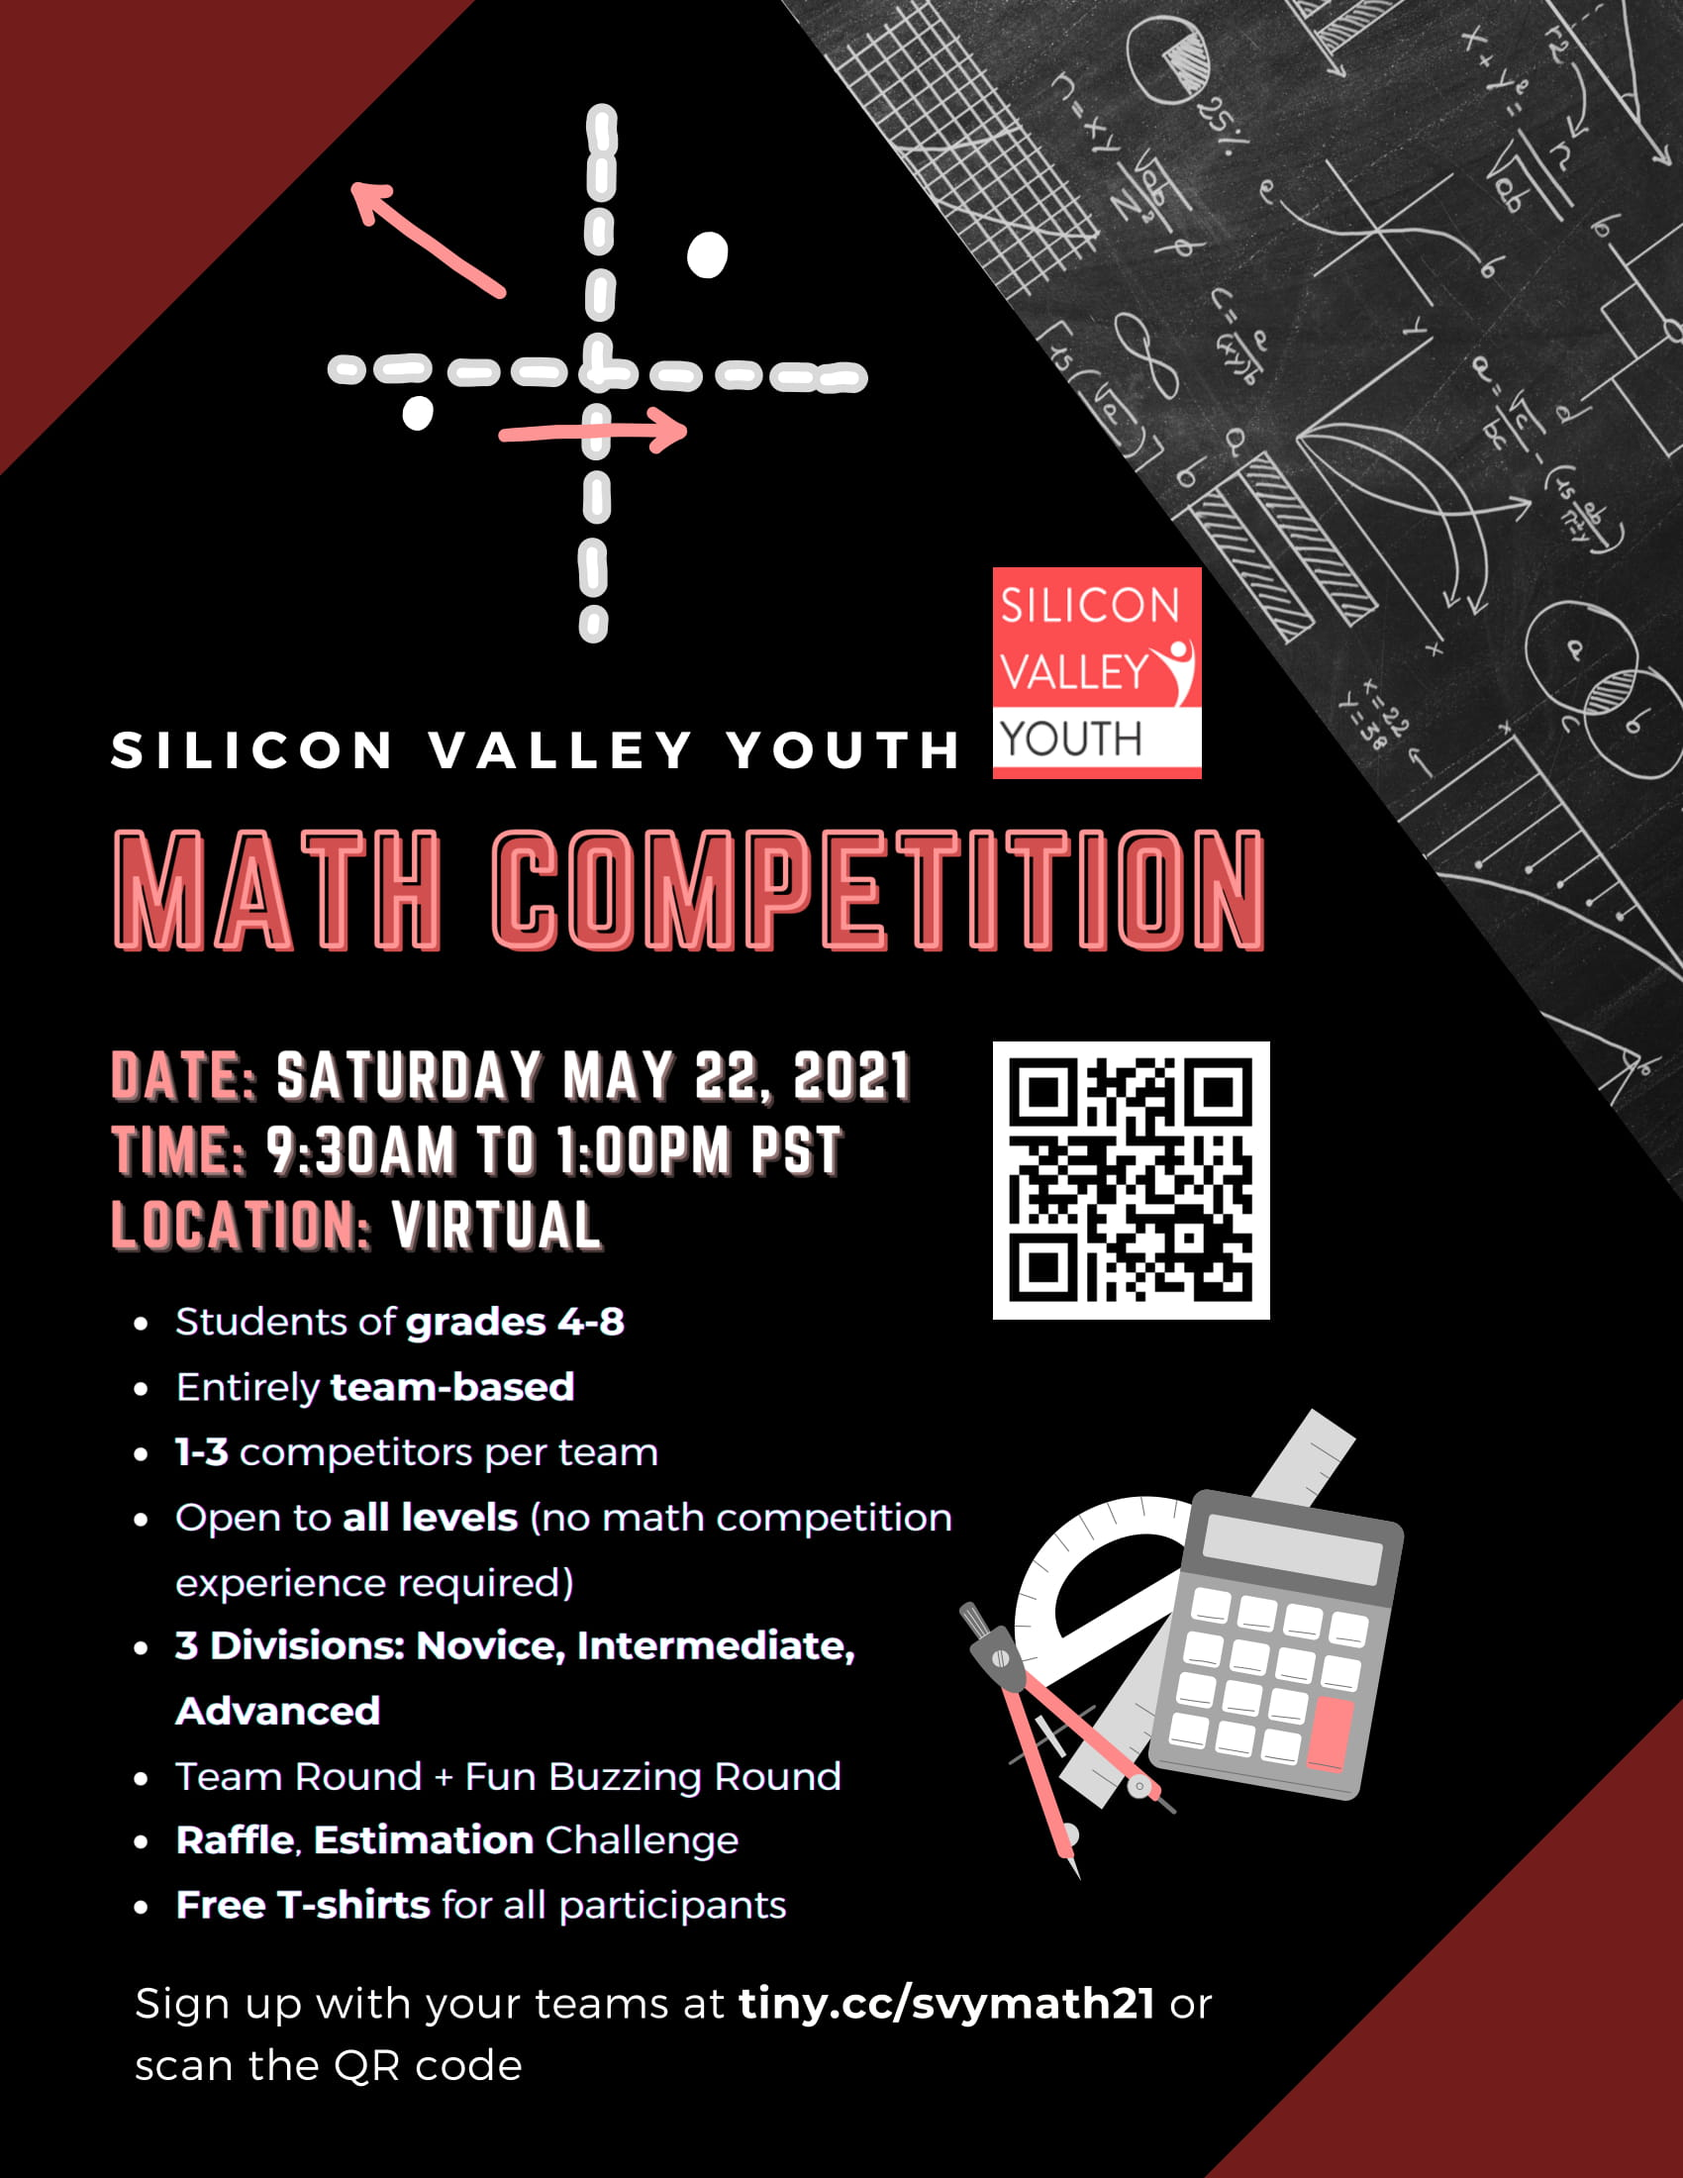
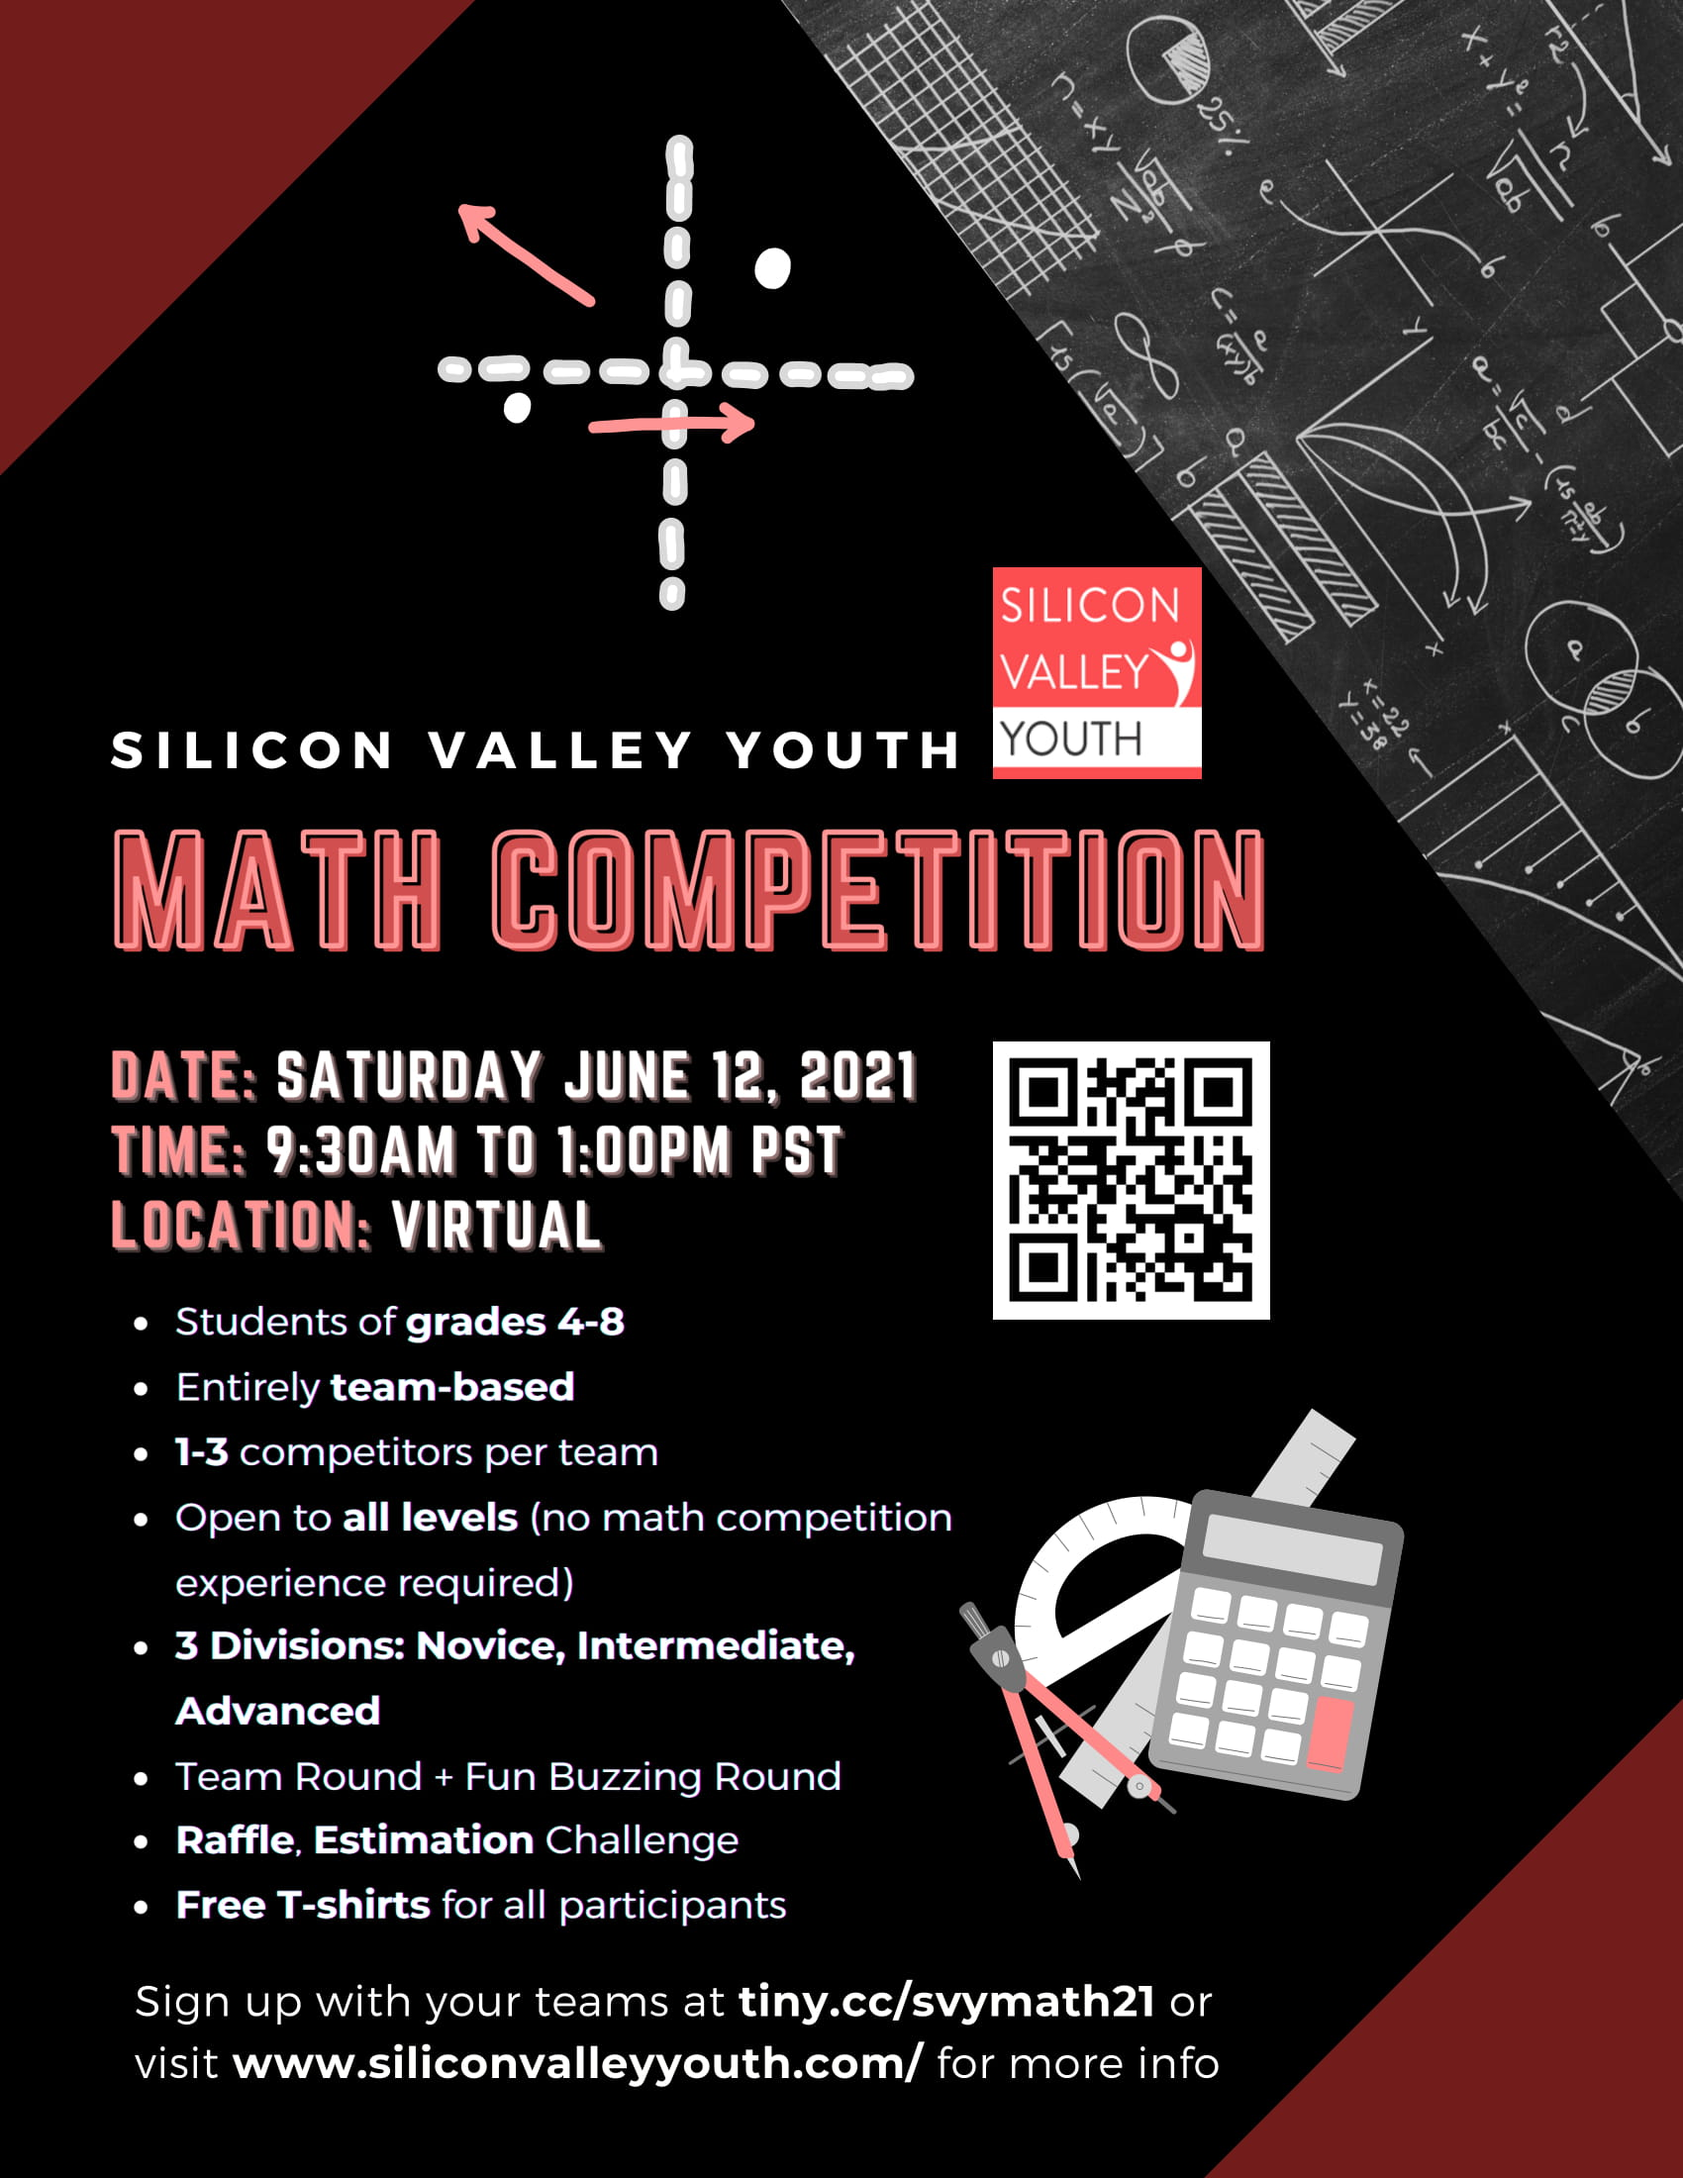
changed date of math competition

Changed region(s): [[0.1871, 0.0309, 0.5612, 0.3091], [0.0935, 0.8964, 0.7171, 0.9582], [0.3429, 0.4636, 0.5612, 0.5255]]

diff --git a/events.html b/events.html
@@ -61,7 +61,7 @@
                 <div class="col-sm-12 slideup">
                     <h2>May 22nd, 2021</h2>
                     <h3>SVY Team-Based Math Competition</h3>
-                    <p>Silicon Valley Youth will be hosting a team math competition on 5/22. Click <a href="/mathcompetition.html">here</a> for details.</p>
+                    <p>Silicon Valley Youth will be hosting a team math competition on 6/12. Click <a href="/mathcompetition.html">here</a> for details.</p>
                 </div>
             </div>
         </div>
